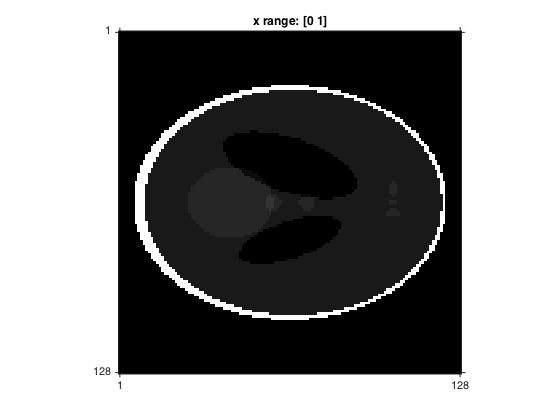
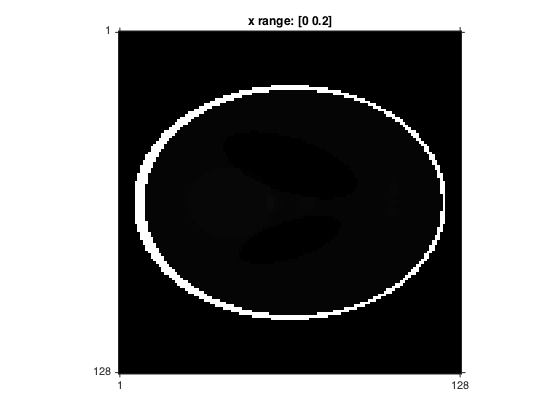
Added additional details to forward modeling

Changed region(s): [[0.3339, 0.4024, 0.5768, 0.5881], [0.425, 0.031, 0.6071, 0.0619], [0.6679, 0.4333, 0.7286, 0.5262]]

diff --git a/src/html/par_recon_example.html b/src/html/par_recon_example.html
@@ -66,8 +66,8 @@ table td { padding:7px 5px; text-align:left; vertical-align:top; border:1px soli
 
 
 
-  </style></head><body><div class="content"><h2>Contents</h2><div><ul><li><a href="#1">Parallel Beam Reconstruction Example</a></li><li><a href="#2">Phantom</a></li><li><a href="#3">Geometries</a></li><li><a href="#4">Generate sinogram</a></li><li><a href="#5">Display phantom and sinogram</a></li><li><a href="#6">Initialize</a></li><li><a href="#7">Iterative reconstruction with SD</a></li></ul></div><h2>Parallel Beam Reconstruction Example<a name="1"></a></h2><p>Generate phantom, generic geometries, and produce a projection. Perform simple iterative reconstruction.</p><pre class="codeinput">close <span class="string">all</span>;
-</pre><h2>Phantom<a name="2"></a></h2><pre class="codeinput">x = phantom(128,<span class="string">'Shepp-Logan'</span>);
+  </style></head><body><div class="content"><h2>Contents</h2><div><ul><li><a href="#1">Parallel Beam Reconstruction Example</a></li><li><a href="#2">Phantom</a></li><li><a href="#3">Geometries</a></li><li><a href="#4">Generate sinogram</a></li><li><a href="#5">Finish forward model</a></li><li><a href="#6">Convert</a></li><li><a href="#7">Display phantom and sinogram</a></li><li><a href="#8">Initialize</a></li><li><a href="#9">Iterative reconstruction with SD</a></li></ul></div><h2>Parallel Beam Reconstruction Example<a name="1"></a></h2><p>Generate phantom, generic geometries, and produce a noiseless projection. Perform simple iterative reconstruction.</p><pre class="codeinput">close <span class="string">all</span>;
+</pre><h2>Phantom<a name="2"></a></h2><pre class="codeinput">x = phantom(128,<span class="string">'Shepp-Logan'</span>)/5;
 </pre><h2>Geometries<a name="3"></a></h2><p>Image and sinogram geometries</p><pre class="codeinput"><span class="comment">% Image geometry</span>
 nx = 128;
 ny = 128;
@@ -98,21 +98,27 @@ sgr = sino_geom(type,<span class="keyword">...</span>
 </pre><h2>Generate sinogram<a name="4"></a></h2><pre class="codeinput">table = {<span class="string">'square/strip'</span>,<span class="string">'Ltab'</span>,[1000],<span class="string">'strip_width'</span>,[dr]}; <span class="comment">% strip integral</span>
 nthread = jf(<span class="string">'ncore'</span>); <span class="comment">% number of threads in my computer</span>
 G = Gtomo2_table(sgr,ig,table,<span class="string">'nthread'</span>,nthread);
-y = G*x;
-</pre><h2>Display phantom and sinogram<a name="5"></a></h2><pre class="codeinput">figure; im(x,[0 .2]);
+p = G*x;
+</pre><h2>Finish forward model<a name="5"></a></h2><pre class="codeinput">r = 0;
+b = 2000000;
+z = b*exp(-p)+r;
+w = z + sqrt(z).*randn(size(z)); <span class="comment">% Simulate poisson</span>
+</pre><h2>Convert<a name="6"></a></h2><pre class="codeinput">y = log((w-r)/b);
+y(y&lt;0) = 0;
+</pre><h2>Display phantom and sinogram<a name="7"></a></h2><pre class="codeinput">figure; im(x,[0 .2]);
 figure; im(y);
-</pre><img vspace="5" hspace="5" src="par_recon_example_01.png" alt=""> <img vspace="5" hspace="5" src="par_recon_example_02.png" alt=""> <h2>Initialize<a name="6"></a></h2><pre class="codeinput">o = ones(128);
+</pre><img vspace="5" hspace="5" src="par_recon_example_01.png" alt=""> <img vspace="5" hspace="5" src="par_recon_example_02.png" alt=""> <h2>Initialize<a name="8"></a></h2><pre class="codeinput">o = ones(128);
 o2 = G'*(G*o);
 m = mean(o2(:));
 x0 = (1/m)*G'*y;
-</pre><h2>Iterative reconstruction with SD<a name="7"></a></h2><pre class="codeinput"><span class="comment">%alpha = 6e-5;</span>
+</pre><h2>Iterative reconstruction with SD<a name="9"></a></h2><pre class="codeinput"><span class="comment">%alpha = 6e-5;</span>
 N = 50;
 xhat = x0;
 <span class="keyword">for</span> k = 1:N
     r = y-G*xhat;
     gr = G'*r;
     alpha = (r(:)'*r(:))/(gr(:)'*gr(:));
-    xhat = xhat + alpha*G'*r;
+    xhat = xhat + alpha*gr;
 <span class="keyword">end</span>
 
 err = x - xhat;
@@ -124,13 +130,13 @@ figure; im(err,[-.1 .1]);
 </pre><img vspace="5" hspace="5" src="par_recon_example_03.png" alt=""> <img vspace="5" hspace="5" src="par_recon_example_04.png" alt=""> <p class="footer"><br><a href="http://www.mathworks.com/products/matlab/">Published with MATLAB&reg; R2014b</a><br></p></div><!--
 ##### SOURCE BEGIN #####
 %% Parallel Beam Reconstruction Example
-% Generate phantom, generic geometries, and produce a projection.
+% Generate phantom, generic geometries, and produce a noiseless projection.
 % Perform simple iterative reconstruction.
 
 close all;
 
 %% Phantom
-x = phantom(128,'Shepp-Logan');
+x = phantom(128,'Shepp-Logan')/5;
 
 %% Geometries
 % Image and sinogram geometries
@@ -167,7 +173,17 @@ sgr = sino_geom(type,...
 table = {'square/strip','Ltab',[1000],'strip_width',[dr]}; % strip integral
 nthread = jf('ncore'); % number of threads in my computer
 G = Gtomo2_table(sgr,ig,table,'nthread',nthread);
-y = G*x;
+p = G*x;
+
+%% Finish forward model
+r = 0;
+b = 2000000;
+z = b*exp(-p)+r;
+w = z + sqrt(z).*randn(size(z)); % Simulate poisson
+
+%% Convert
+y = log((w-r)/b);
+y(y<0) = 0;
 
 %% Display phantom and sinogram
 figure; im(x,[0 .2]);
@@ -187,7 +203,7 @@ for k = 1:N
     r = y-G*xhat;
     gr = G'*r;
     alpha = (r(:)'*r(:))/(gr(:)'*gr(:));
-    xhat = xhat + alpha*G'*r;
+    xhat = xhat + alpha*gr;
 end
 
 err = x - xhat;

diff --git a/src/par_recon_example.m b/src/par_recon_example.m
@@ -1,5 +1,5 @@
 %% Parallel Beam Reconstruction Example
-% Generate phantom, generic geometries, and produce a projection.
+% Generate phantom, generic geometries, and produce a noiseless projection.
 % Perform simple iterative reconstruction.
 
 close all;
@@ -42,7 +42,19 @@ sgr = sino_geom(type,...
 table = {'square/strip','Ltab',[1000],'strip_width',[dr]}; % strip integral
 nthread = jf('ncore'); % number of threads in my computer
 G = Gtomo2_table(sgr,ig,table,'nthread',nthread);
-y = G*x;
+p = G*x;
+
+%% Finish forward model
+r = 0;
+b = 100000; % who knows?
+z = b*exp(-p)+r;
+%w = z + sqrt(z).*randn(size(z)); % Simulate large value Poisson
+w = z;
+
+%% Convert
+y = -log((w-r)/b);
+y(im(y)~=0)=max(y(:));
+y = abs(y);
 
 %% Display phantom and sinogram
 figure; im(x,[0 .2]);
@@ -62,7 +74,7 @@ for k = 1:N
     r = y-G*xhat;
     gr = G'*r;
     alpha = (r(:)'*r(:))/(gr(:)'*gr(:));
-    xhat = xhat + alpha*G'*r;
+    xhat = xhat + alpha*gr;
 end
 
 err = x - xhat;
